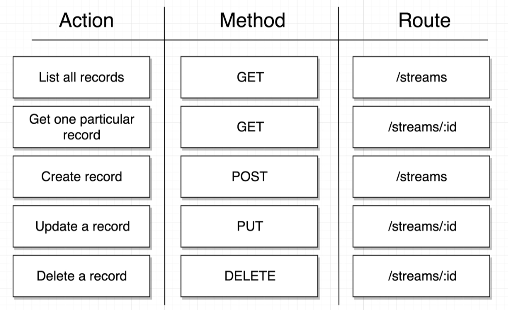
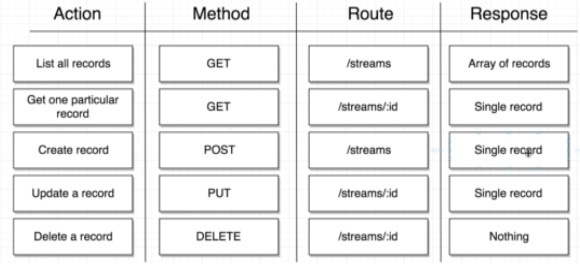
Criando actions e reducers para consumir o serviço da API

Changed region(s): [[0.0, 0.0, 1.0, 1.0]]

diff --git a/stream/client/src/actions/index.js b/stream/client/src/actions/index.js
@@ -1,4 +1,13 @@
-import { SIGN_IN, SIGN_OUT } from "./types";
+import {
+  SIGN_IN,
+  SIGN_OUT,
+  CREATE_STREM,
+  FETCH_STREAM,
+  FETCH_STREAMS,
+  EDIT_STREAM,
+  DELETE_STREAM,
+} from "./types";
+import streams from "../apis/streams";
 
 export const signIn = (userId) => {
   return {
@@ -11,4 +20,29 @@ export const signOut = () => {
   return {
     type: SIGN_OUT,
   };
+};
+
+export const createStream = (formValues) => async (dispatch) => {
+  const response = await streams.post("/streams", formValues);
+  dispatch({ type: CREATE_STREM, payload: response.data });
+};
+
+export const fetchStreams = () => async (dispatch) => {
+  const response = await streams.get("/streams");
+  dispatch({ type: FETCH_STREAMS, payload: response.data });
+};
+
+export const fetchStream = (id) => async (dispatch) => {
+  const response = await streams.get(`/streams/${id}`);
+  dispatch({ type: FETCH_STREAM, payload: response.data });
+};
+
+export const editStream = (id, formValues) => async (dispatch) => {
+  const response = await streams.put(`/streams/${id}`, formValues);
+  dispatch({ type: EDIT_STREAM, payload: response.data });
+};
+
+export const deleteStream = (id) => async (dispatch) => {
+  await streams.delete(`/streams/${id}`);
+  dispatch({ type: DELETE_STREAM, payload: id });
 };

diff --git a/stream/client/src/components/stream/StreamList.js b/stream/client/src/components/stream/StreamList.js
@@ -1,7 +1,36 @@
-import React from "react";
+import React, { Component } from "react";
+import { connect } from "react-redux";
+import { fetchStreams } from "../../actions";
 
-const StreamList = () => {
-  return <div>List</div>;
+class StreamList extends Component {
+  componentDidMount() {
+    this.props.fetchStreams();
+  }
+
+  renderList() {
+    return this.props.streams.map((stream) => (
+      <div key={stream.id} className="item">
+        <i className="large middle aligned icon camera"></i>
+        <div className="content">
+          {stream.title}
+          <div className="description">{stream.description}</div>
+        </div>
+      </div>
+    ));
+  }
+
+  render() {
+    return (
+      <div>
+        <h2>Streams</h2>
+        <div className="ui celled list">{this.renderList()}</div>
+      </div>
+    );
+  }
+}
+
+const mapStateToProps = (state) => {
+  return { streams: Object.values(state.streams) };
 };
 
-export default StreamList;
+export default connect(mapStateToProps, { fetchStreams })(StreamList);

diff --git a/stream/client/src/components/stream/StreamCreate.js b/stream/client/src/components/stream/StreamCreate.js
@@ -1,5 +1,8 @@
 import React, { Component } from "react";
+import { connect } from "react-redux";
+import { createStore } from "redux";
 import { Field, reduxForm } from "redux-form";
+import { createStream } from "../../actions";
 
 class StreamCreate extends Component {
   renderError({ error, touched }) {
@@ -24,9 +27,9 @@ class StreamCreate extends Component {
     );
   };
 
-  onSubmit(formValues) {
-    console.log(formValues);
-  }
+  onSubmit = (formValues) => {
+    this.props.createStream(formValues);
+  };
 
   render() {
     return (
@@ -59,7 +62,8 @@ const validate = (formValues) => {
   return errors;
 };
 
-export default reduxForm({
+const formWrapped = reduxForm({
   form: "streamCreate",
   validate: validate, //função que valida o formulario,
 })(StreamCreate);
+export default connect(null, { createStream })(formWrapped);

diff --git a/stream/client/src/reducers/streamReducer.js b/stream/client/src/reducers/streamReducer.js
@@ -1,0 +1,25 @@
+import {
+  CREATE_STREM,
+  FETCH_STREAM,
+  FETCH_STREAMS,
+  EDIT_STREAM,
+  DELETE_STREAM,
+} from "../actions/types";
+
+import _ from "lodash";
+
+export default (state = {}, action) => {
+  const { payload } = action;
+  switch (action.type) {
+    case FETCH_STREAMS:
+      return { ...state, ..._.mapKeys(payload, "id") };
+    case CREATE_STREM:
+    case EDIT_STREAM:
+    case FETCH_STREAM:
+      return { ...state, [payload.id]: payload };
+    case DELETE_STREAM:
+      return _.omit(state, payload);
+    default:
+      return state;
+  }
+};

diff --git a/stream/client/src/index.js b/stream/client/src/index.js
@@ -4,9 +4,13 @@ import { Provider } from "react-redux";
 import App from "./components/App";
 import reducers from "./reducers";
 import { createStore, applyMiddleware, compose } from "redux";
+import reduxThunk from "redux-thunk";
 
 const composeEnhancers = window.__REDUX_DEVTOOLS_EXTENSION_COMPOSE__ || compose;
-const store = createStore(reducers, composeEnhancers(applyMiddleware()));
+const store = createStore(
+  reducers,
+  composeEnhancers(applyMiddleware(reduxThunk))
+);
 
 ReactDOM.render(
   <Provider store={store}>

diff --git a/stream/client/src/reducers/index.js b/stream/client/src/reducers/index.js
@@ -1,9 +1,11 @@
 import { combineReducers } from "redux";
 import authReducer from "./authReducer";
+import streamReducer from "./streamReducer";
 //Renomeando a variavel reducer para form reducer
 import { reducer as formReducer } from "redux-form";
 
 export default combineReducers({
   auth: authReducer,
+  streams: streamReducer,
   form: formReducer,
 });

diff --git a/stream/client/src/actions/types.js b/stream/client/src/actions/types.js
@@ -1,2 +1,7 @@
 export const SIGN_IN = "SIGN_IN";
 export const SIGN_OUT = "SIGN_OUT";
+export const FETCH_STREAMS = "FETCH_STREAMS";
+export const FETCH_STREAM = "FETCH_STREAM";
+export const CREATE_STREM = "CREATE_STREAM";
+export const DELETE_STREAM = "DELETE_STREAM";
+export const EDIT_STREAM = "EDIT_STREAM";

diff --git a/stream/client/src/apis/streams.js b/stream/client/src/apis/streams.js
@@ -1,0 +1,5 @@
+import axios from "axios";
+
+export default axios.create({
+  baseURL: "http://localhost:3001",
+});
